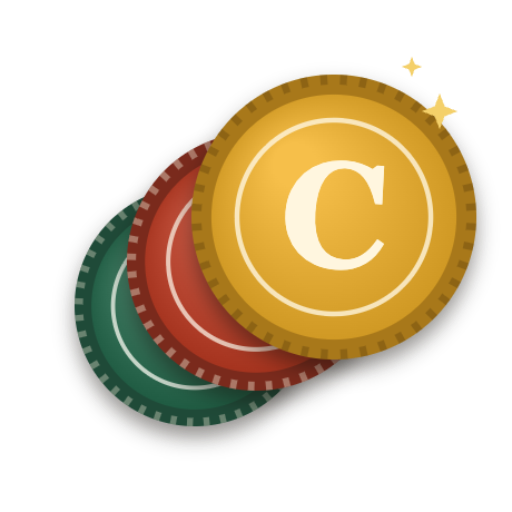
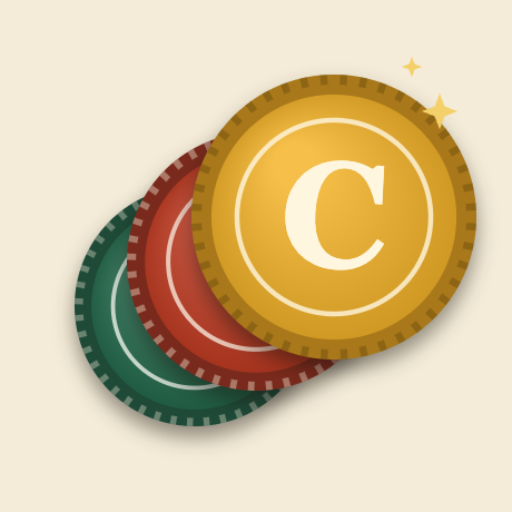
Updates

diff --git a/sw.js b/sw.js
@@ -1,1 +1,1 @@
-if(!self.define){let e,i={};const n=(n,c)=>(n=new URL(n+".js",c).href,i[n]||new Promise(i=>{if("document"in self){const e=document.createElement("script");e.src=n,e.onload=i,document.head.appendChild(e)}else e=n,importScripts(n),i()}).then(()=>{let e=i[n];if(!e)throw new Error(`Module ${n} didn’t register its module`);return e}));self.define=(c,s)=>{const o=e||("document"in self?document.currentScript.src:"")||location.href;if(i[o])return;let r={};const d=e=>n(e,o),f={module:{uri:o},exports:r,require:d};i[o]=Promise.all(c.map(e=>f[e]||d(e))).then(e=>(s(...e),r))}}define(["./workbox-9c191d2f"],function(e){"use strict";self.skipWaiting(),e.clientsClaim(),e.precacheAndRoute([{url:"registerSW.js",revision:"227a3086067b0b313353fe26cb698f3d"},{url:"index.html",revision:"33eeab927fbe64a404574dc51dbb9a5a"},{url:"favicon.png",revision:"7ae262dce2a8f75c3d34544acd6f4bdd"},{url:"icons/icon.png",revision:"1e9d4e3343c8e4fc3223c1f501acf2c4"},{url:"icons/icon-maskable-512.png",revision:"53593df0fa6e0ea96c71ac16f86e96c2"},{url:"icons/icon-512.png",revision:"258e1d1e940218257334b111452874ca"},{url:"icons/icon-192.png",revision:"7ae262dce2a8f75c3d34544acd6f4bdd"},{url:"icons/apple-touch-icon.png",revision:"dbbd682f7e3adeb843facd6c2467b5cb"},{url:"assets/index-P0uy2DO4.css",revision:null},{url:"assets/index-CUnhKKGU.js",revision:null},{url:"icons/icon-192.png",revision:"7ae262dce2a8f75c3d34544acd6f4bdd"},{url:"icons/icon-512.png",revision:"258e1d1e940218257334b111452874ca"},{url:"icons/icon-maskable-512.png",revision:"53593df0fa6e0ea96c71ac16f86e96c2"},{url:"icons/icon.png",revision:"1e9d4e3343c8e4fc3223c1f501acf2c4"},{url:"manifest.webmanifest",revision:"64a8b741802fc06e7e8f3c0b4c27b2e2"}],{}),e.cleanupOutdatedCaches(),e.registerRoute(new e.NavigationRoute(e.createHandlerBoundToURL("index.html")))});
+if(!self.define){let e,c={};const i=(i,n)=>(i=new URL(i+".js",n).href,c[i]||new Promise(c=>{if("document"in self){const e=document.createElement("script");e.src=i,e.onload=c,document.head.appendChild(e)}else e=i,importScripts(i),c()}).then(()=>{let e=c[i];if(!e)throw new Error(`Module ${i} didn’t register its module`);return e}));self.define=(n,s)=>{const o=e||("document"in self?document.currentScript.src:"")||location.href;if(c[o])return;let r={};const d=e=>i(e,o),f={module:{uri:o},exports:r,require:d};c[o]=Promise.all(n.map(e=>f[e]||d(e))).then(e=>(s(...e),r))}}define(["./workbox-9c191d2f"],function(e){"use strict";self.skipWaiting(),e.clientsClaim(),e.precacheAndRoute([{url:"registerSW.js",revision:"227a3086067b0b313353fe26cb698f3d"},{url:"index.html",revision:"33eeab927fbe64a404574dc51dbb9a5a"},{url:"favicon.png",revision:"7ae262dce2a8f75c3d34544acd6f4bdd"},{url:"icons/icon.png",revision:"1e9d4e3343c8e4fc3223c1f501acf2c4"},{url:"icons/icon-maskable-512.png",revision:"53593df0fa6e0ea96c71ac16f86e96c2"},{url:"icons/icon-512.png",revision:"522cd9ac57459d85544f9e7fec8c7339"},{url:"icons/icon-192.png",revision:"a85415869538b9c505356c0657dca7dc"},{url:"icons/apple-touch-icon.png",revision:"dbbd682f7e3adeb843facd6c2467b5cb"},{url:"assets/index-P0uy2DO4.css",revision:null},{url:"assets/index-CUnhKKGU.js",revision:null},{url:"icons/icon-192.png",revision:"a85415869538b9c505356c0657dca7dc"},{url:"icons/icon-512.png",revision:"522cd9ac57459d85544f9e7fec8c7339"},{url:"icons/icon-maskable-512.png",revision:"53593df0fa6e0ea96c71ac16f86e96c2"},{url:"icons/icon.png",revision:"1e9d4e3343c8e4fc3223c1f501acf2c4"},{url:"manifest.webmanifest",revision:"64a8b741802fc06e7e8f3c0b4c27b2e2"}],{}),e.cleanupOutdatedCaches(),e.registerRoute(new e.NavigationRoute(e.createHandlerBoundToURL("index.html")))});